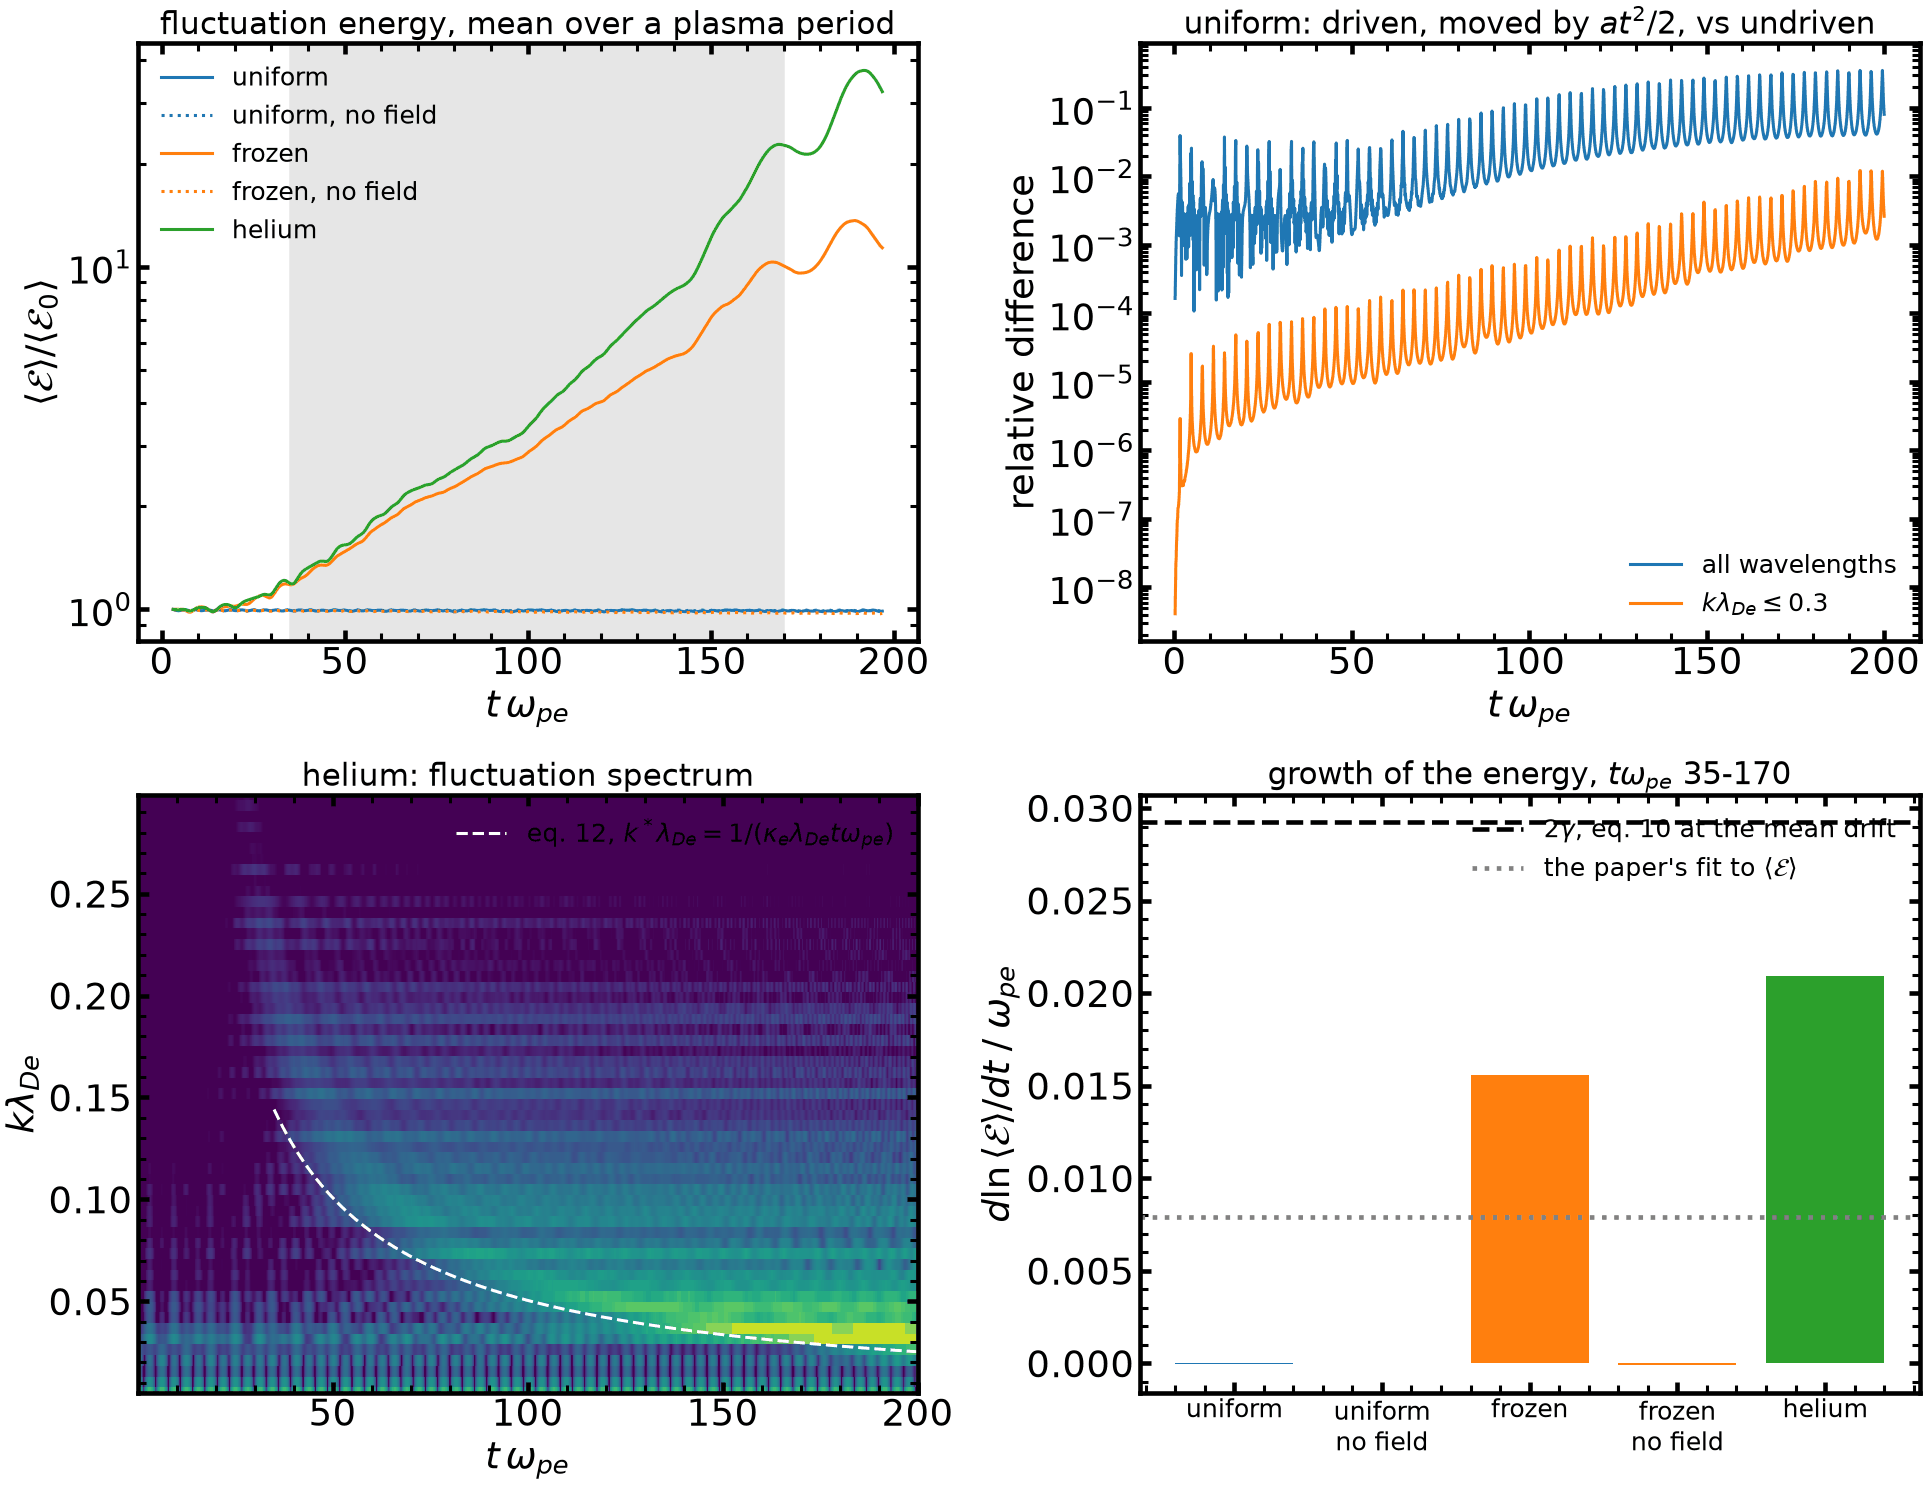
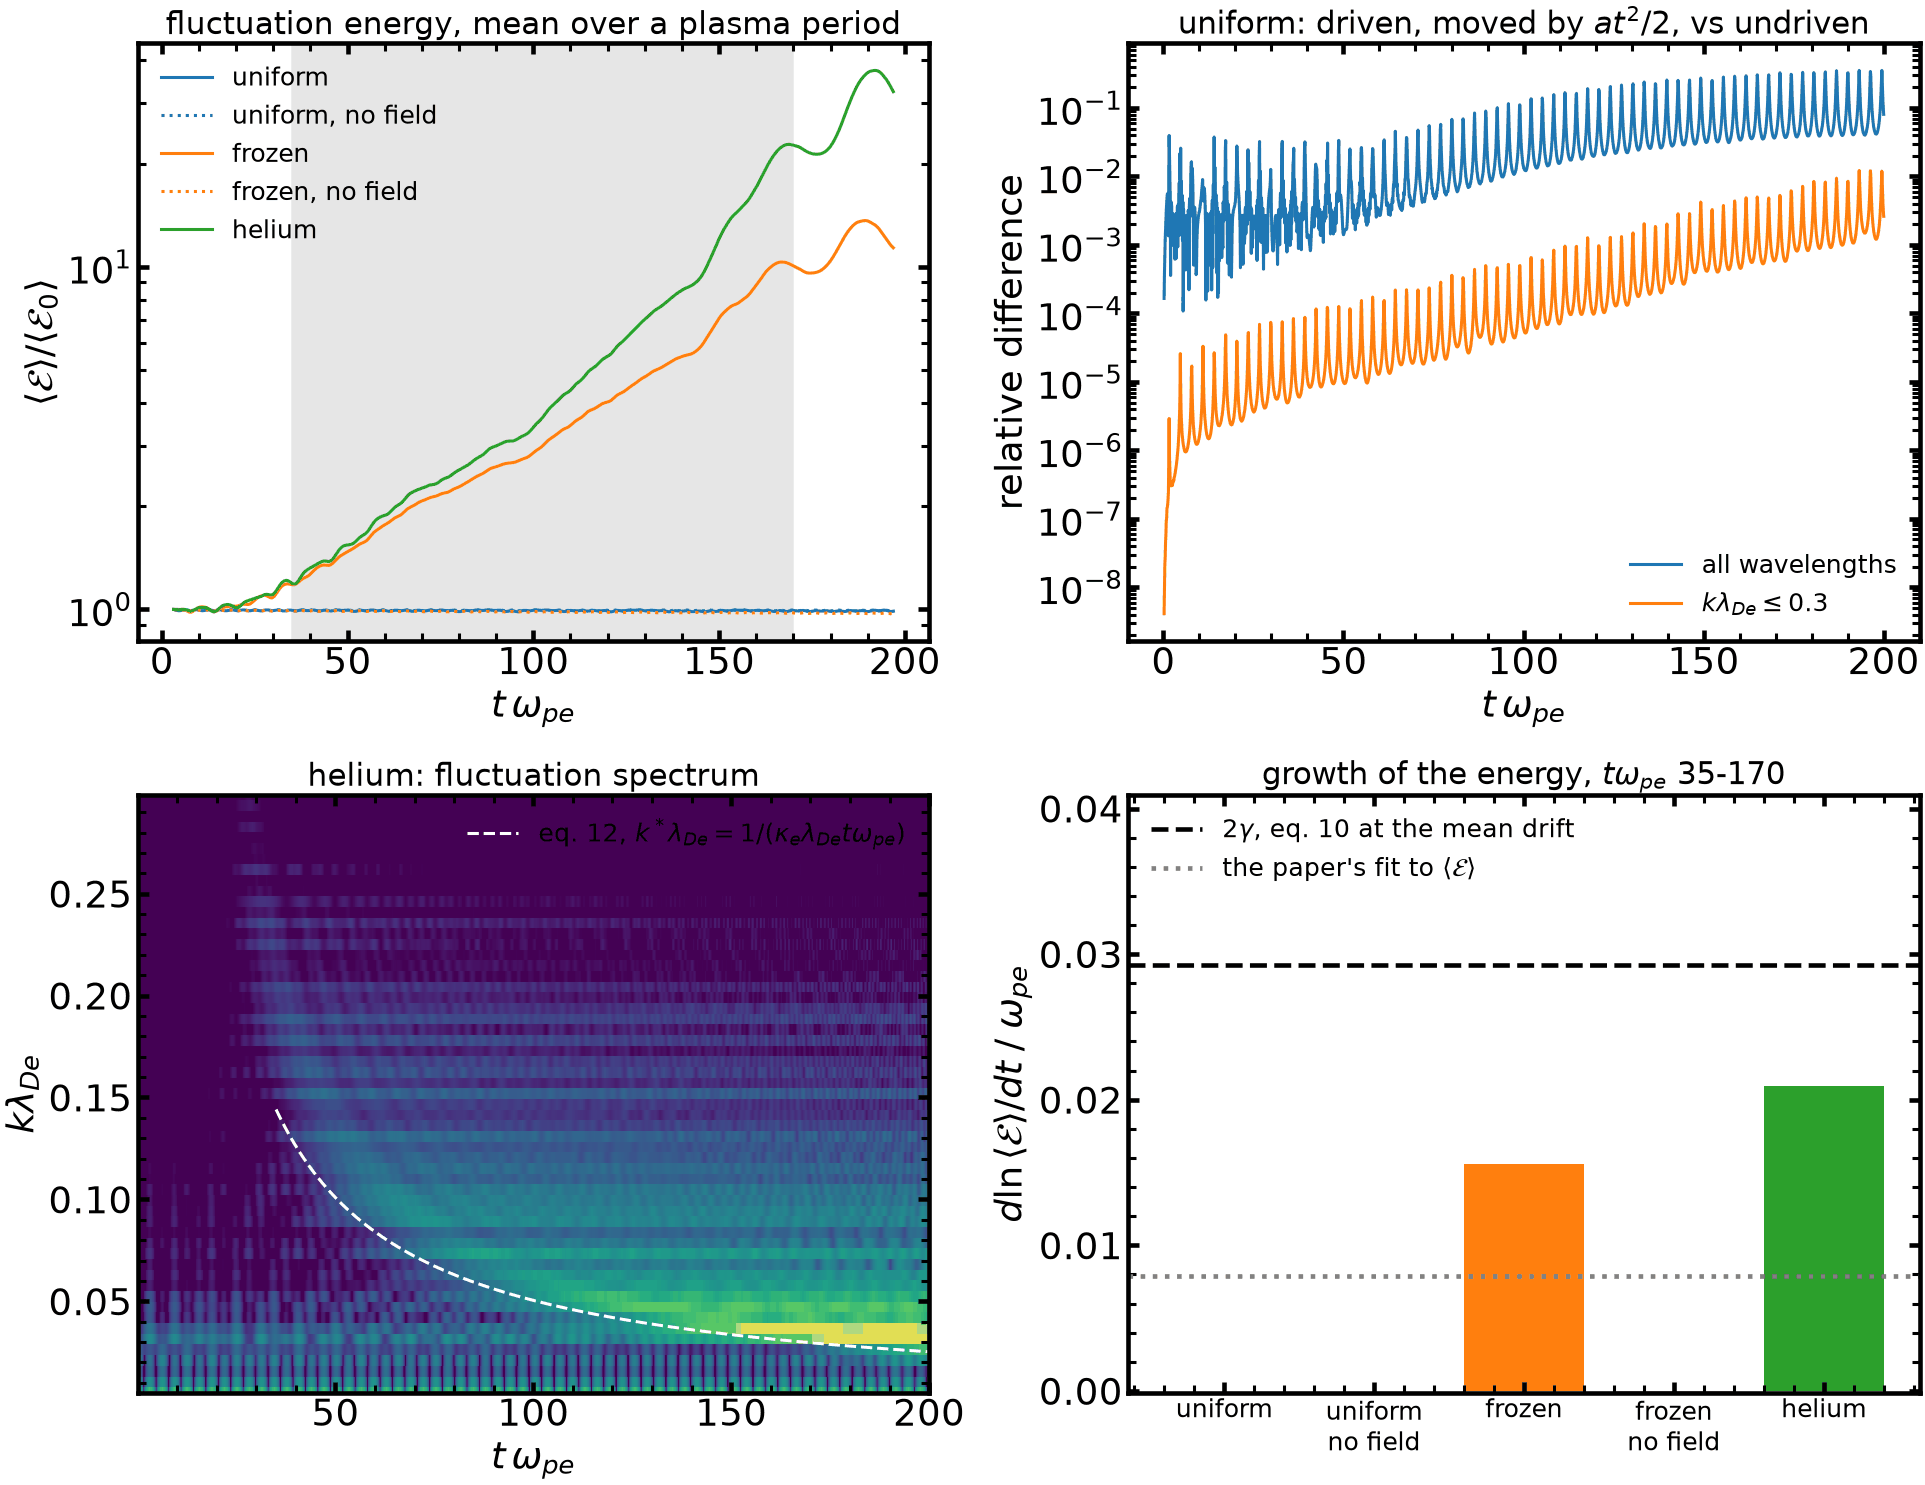
W10: the ion-count control, and the figure redrawn with its legend clear
Frozen-ion runs at 100, 400 and 1600 ion markers per cell: the late fluctuation energy falls
2.3-2.5 times per fourfold increase, so the growth is set by the discrete ions. Page, README
row and plan record it; the figure is the same run with panel (d) rescaled.

diff --git a/README.md b/README.md
@@ -149,7 +149,7 @@ regenerates with the figures. Where a TOML file is listed the run needs no Pytho
 | [Two-stream](https://jax-in-cell.readthedocs.io/en/latest/examples/two_stream.html) | kinetic growth rate | 3.3 % seeded, 2.8 % mean over the unstable range | `1_basic/two_stream.py` · `two_stream.toml` |
 | [Relativistic two-stream](https://jax-in-cell.readthedocs.io/en/latest/examples/relativistic_two_stream.html) | cold relativistic growth rate, relativistic Boris on and off | 0.8 % relativistic, 1.1 % non-relativistic; energy of each pusher's own equations to 7e-4 and 3e-3 | `docs/scripts/fig_relativistic.py` |
 | [Bump on tail](https://jax-in-cell.readthedocs.io/en/latest/examples/bump_on_tail.html) | kinetic growth rate, quasilinear plateau | 6.3 % | `2_intermediate/bump_on_tail.py` · `bump_on_tail.toml` |
-| [Electron-field instability](https://jax-in-cell.readthedocs.io/en/latest/examples/electron_field.html) | Beving et al. (2023): growth in a uniform field, eq. 10 and the fastest wavenumber of eq. 12; the change of frame that removes the field from a uniform background | $d\ln\langle\mathcal E\rangle/dt$: helium 2.09e-2, frozen ions 1.56e-2 against the paper's 7.9e-3 and 2.9e-2 from eq. 10; uniform background none (-2e-5), driven equals undriven moved by $at^2/2$ to 5e-3; peak at 1.14 times eq. 12, as for the wake of the discrete ions | `3_advanced/electron_field.py` |
+| [Electron-field instability](https://jax-in-cell.readthedocs.io/en/latest/examples/electron_field.html) | Beving et al. (2023): growth in a uniform field, eq. 10 and the fastest wavenumber of eq. 12; the change of frame that removes the field from a uniform background | $d\ln\langle\mathcal E\rangle/dt$: helium 2.09e-2, frozen ions 1.56e-2 against the paper's 7.9e-3 and 2.9e-2 from eq. 10; uniform background none (-2e-5), driven equals undriven moved by $at^2/2$ to 5e-3; peak at 1.14 times eq. 12, and the late energy falls 2.3-2.5 times per fourfold increase in ion markers: the growth is set by the discrete ions | `3_advanced/electron_field.py` |
 | [Partly reflecting wall](https://jax-in-cell.readthedocs.io/en/latest/examples/wall_reflection.html) | flux average of the reflection law | 2e-4 | `2_intermediate/wall_reflection.py` |
 | [Conservation](https://jax-in-cell.readthedocs.io/en/latest/examples/conservation.html) | energy, momentum and the Gauss law | implicit: energy 3e-16, Gauss law 7e-15 | `3_advanced/conservation.py` · `conservation_implicit.toml` |
 | [Optimisation](https://jax-in-cell.readthedocs.io/en/latest/examples/optimize_two_stream.html) | fastest-growing drift from linear theory | 0.1 % after 12 ascent steps | `3_advanced/optimize_two_stream.py` |

diff --git a/plan.md b/plan.md
@@ -1266,8 +1266,15 @@ wave standing still in the ion frame: the Cherenkov wake of the ions' charge noi
 through resonance by the accelerating electrons. The growth reproduced here is of the
 paper's size, but it is not evidence for the Fried continuum instability.
 
-**Left open:** the ion macro-particle-count scaling of the helium growth (the decisive
-test of the wake picture); sixteen realisations instead of four; collisions and walls, which
+**Ion-count control** (scratch, `~/w10/scan/scan.py` on office: the example with the frozen
+ions' count changed, seed 0, 400 electrons per cell, one realisation each): mean <E> over
+t omega_pe 160-180 of 1.19e-4 / 5.28e-5 / 2.11e-5 J/m^3 at 100 / 400 / 1600 ions per cell,
+from 1.05e-5 / 1.16e-5 / 5.1e-6 at the start (gains 11 / 4.6 / 4.2): the level falls 2.3-2.5
+times per fourfold increase in ion markers, so the growth is set by the discrete ions and not
+by the electrons in the field; weaker than the 1/N_i of a linear wake, which is unexplained.
+
+**Left open:** why the ion-count scaling is N_i^-0.6 rather than N_i^-1; the same scan for
+mobile helium and with more realisations; sixteen realisations instead of four; collisions and walls, which
 also break the change of frame. Docs: `docs/examples/electron_field.md` from
 `docs/scripts/fig_electron_field.py` (in make_all.py; runs the example); README 1D1V row;
 CI Examples job runs `electron_field --quick`.

diff --git a/docs/examples/electron_field.md b/docs/examples/electron_field.md
@@ -54,10 +54,15 @@ the continuum limit of the same setup, the uniform background, shows none. Its r
 {{ efi_helium_rate }}, is of the size the paper reports for the same fit ({{ efi_paper }})
 and below $2\gamma$ of eq. 10 ({{ efi_theory }}).
 
-What is not settled by this page: whether the growth in the helium run scales with the
-number of ion macro-particles per cell, as the wake picture implies; and whether a physical, non-discrete ion noise level, far
-below 400 per cell, would still drive it. Collisions and walls, which also break the change
-of frame, are not included.
+The ion count decides the level. The same frozen-ion run (seed 0, 400 electrons per cell)
+with 100, 400 and 1600 ion macro-particles per cell reaches a mean fluctuation energy of
+1.19e-4, 5.28e-5 and 2.11e-5 J/m$^3$ over $t\omega_{pe}$ = 160-180, from starting levels of
+1.05e-5, 1.16e-5 and 5.1e-6: a factor of 2.3 to 2.5 lower for every fourfold increase in
+ions, and a gain that falls from 11 to 4.2. An instability of the electrons in the field
+would not care how many ion markers there are. The scaling is weaker than the $1/N_i$ of a
+purely linear wake, which is not explained here, and four realisations are fewer than the
+paper's sixteen. Collisions and walls, which also break the change of frame, are not
+included.
 
 ## The setup
 
